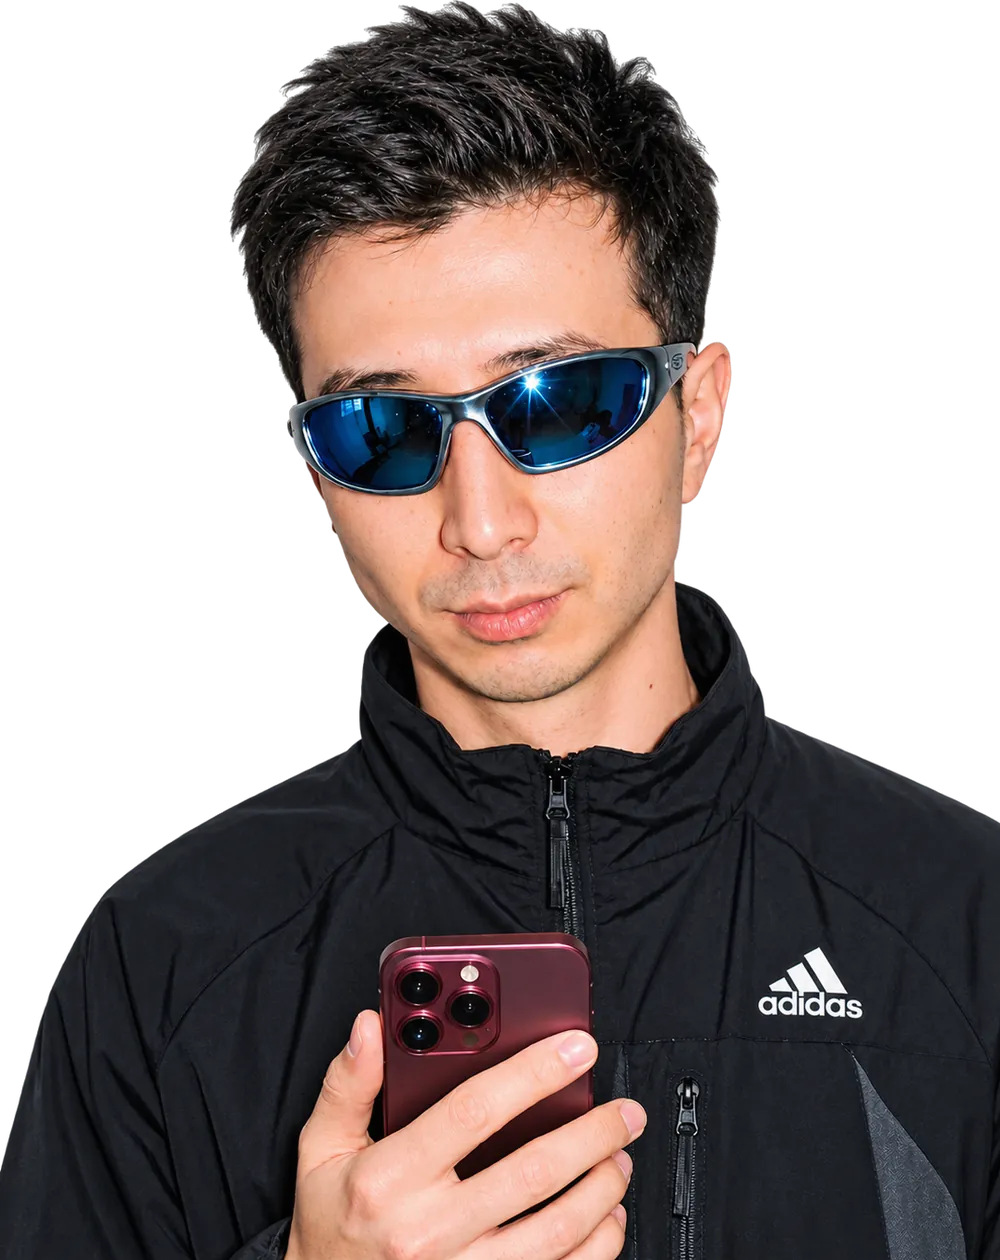
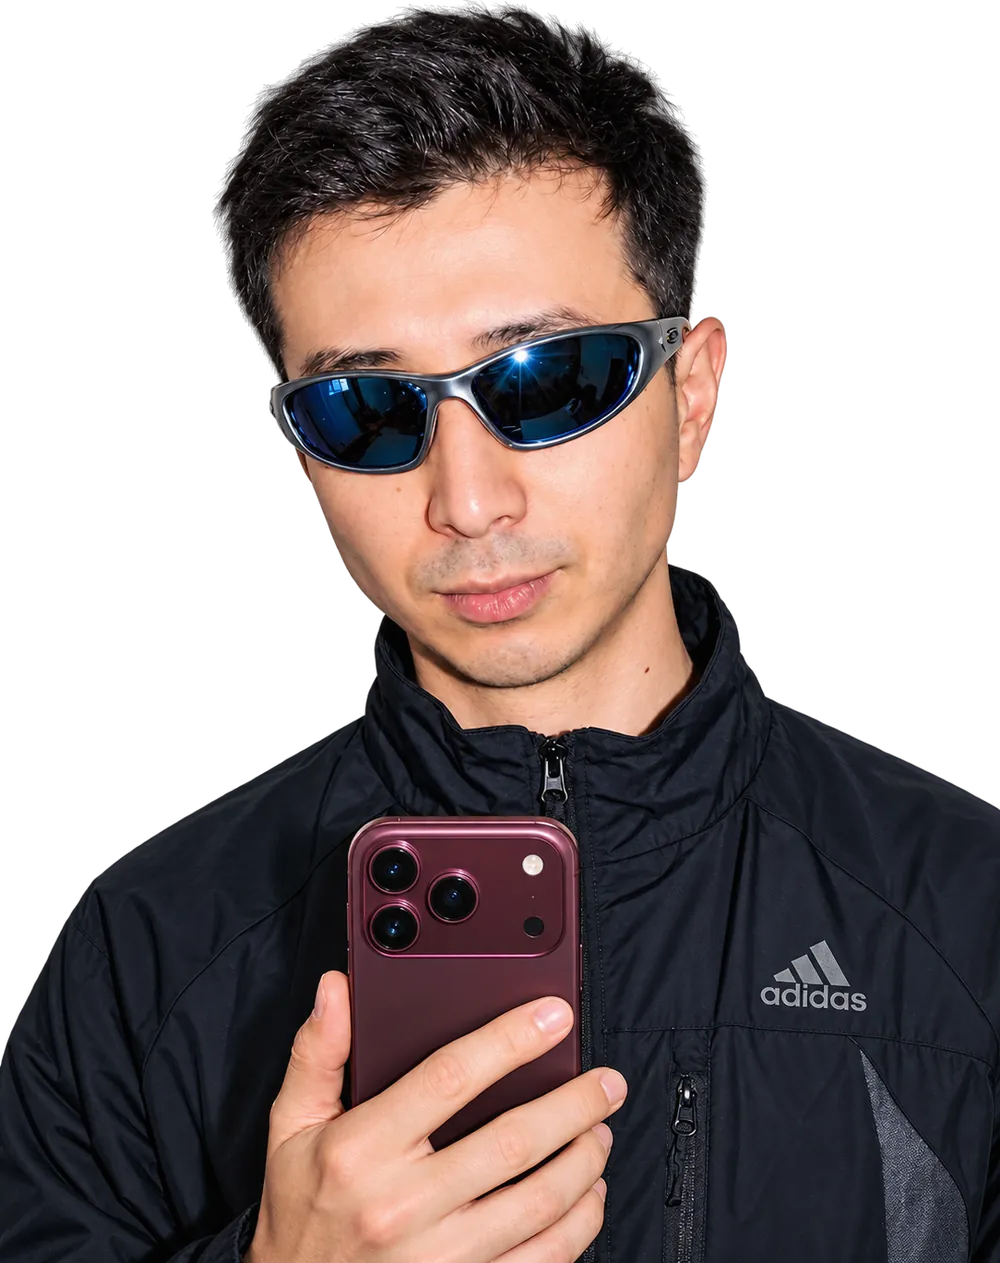
Hero: new 3D objects (Instagram, Facebook, chat, coin stack), white band text; new trust photo; call is free
Claude-Session: https://claude.ai/code/session_01KPYEyg31sCA23kDGY9SPR4

Changed region(s): [[0.0, 0.0, 1.0, 1.0], [0.713, 0.681, 1.0, 1.0], [0.0, 0.9595, 0.031, 0.9905]]

diff --git a/index.html b/index.html
@@ -70,7 +70,7 @@
           <a class="btn btn--ghost" href="#audit">Аудит рекламы — бесплатно</a>
         </div>
         <p class="hero__note"><span class="dot" aria-hidden="true"></span>Отвечаю в Telegram в течение 2 часов, с 13:00 до 23:00</p>
-        <a class="hero__call" href="#call"><svg class="ic" viewBox="0 0 24 24" aria-hidden="true"><rect x="3" y="6" width="13" height="12" rx="3"/><path d="m16 10 5-3v10l-5-3"/></svg><span>Можно созвониться в <b>Zoom</b> или <b>Discord</b></span></a>
+        <a class="hero__call" href="#call"><svg class="ic" viewBox="0 0 24 24" aria-hidden="true"><rect x="3" y="6" width="13" height="12" rx="3"/><path d="m16 10 5-3v10l-5-3"/></svg><span>Бесплатный созвон в <b>Zoom</b> или <b>Discord</b></span></a>
       </div>
 
       <div class="hero__visual">
@@ -100,9 +100,10 @@
         </div>
 
         <div class="coins" aria-hidden="true">
-          <span class="coin coin--som" style="--d:1.3"><img src="assets/img/3d/coin-som.webp" width="440" height="454" alt=""></span>
-          <span class="coin coin--usd" style="--d:-1"><img src="assets/img/3d/coin-usd.webp" width="440" height="452" alt=""></span>
-          <span class="coin coin--kzt" style="--d:2"><img src="assets/img/3d/coin-kzt.webp" width="440" height="452" alt=""></span>
+          <span class="coin coin--ig" style="--d:1.3"><img src="assets/img/3d/ig.webp" width="440" height="441" alt=""></span>
+          <span class="coin coin--fb" style="--d:-1"><img src="assets/img/3d/fb.webp" width="440" height="451" alt=""></span>
+          <span class="coin coin--chat" style="--d:2"><img src="assets/img/3d/chat.webp" width="440" height="441" alt=""></span>
+          <span class="coin coin--stack" style="--d:-1.6"><img src="assets/img/3d/coins-stack.webp" width="520" height="462" alt=""></span>
         </div>
       </div>
     </section>
@@ -118,8 +119,8 @@
     </div>
     <div class="band band--light">
       <div class="band__track band__track--rev" data-speed="-0.8">
-        <span>Meta Ads <i>✦</i> Разблокировка <i>✦</i> Арбитраж <i>✦</i> Аудит <i>✦</i> Meta Ads <i>✦</i> Разблокировка <i>✦</i> Арбитраж <i>✦</i> Аудит <i>✦</i> </span>
-        <span>Meta Ads <i>✦</i> Разблокировка <i>✦</i> Арбитраж <i>✦</i> Аудит <i>✦</i> Meta Ads <i>✦</i> Разблокировка <i>✦</i> Арбитраж <i>✦</i> Аудит <i>✦</i> </span>
+        <span>Instagram <i>✦</i> Facebook Ads <i>✦</i> Targeting <i>✦</i> Разблокировка <i>✦</i> Instagram <i>✦</i> Facebook Ads <i>✦</i> Targeting <i>✦</i> Разблокировка <i>✦</i> </span>
+        <span>Instagram <i>✦</i> Facebook Ads <i>✦</i> Targeting <i>✦</i> Разблокировка <i>✦</i> Instagram <i>✦</i> Facebook Ads <i>✦</i> Targeting <i>✦</i> Разблокировка <i>✦</i> </span>
       </div>
     </div>
   </div>
@@ -195,7 +196,7 @@
 
       <div class="trust__visual" data-reveal>
         <span class="trust__band" aria-hidden="true"></span>
-        <img class="trust__photo" src="assets/img/trust-abbos.webp" width="1000" height="1260" alt="Аббос в солнцезащитных очках с телефоном" loading="lazy">
+        <img class="trust__photo" src="assets/img/trust-abbos.webp" width="1000" height="1263" alt="Аббос в солнцезащитных очках с телефоном" loading="lazy">
 
         <svg class="seal" viewBox="0 0 200 200" role="img" aria-label="Без паролей. Цена до старта. Диагностика бесплатно." data-spin>
           <defs><path id="seal-path" d="M100 100 m-78 0 a78 78 0 1 1 156 0 a78 78 0 1 1 -156 0"/></defs>
@@ -293,8 +294,9 @@
         <div class="call__copy">
           <p class="eyebrow eyebrow--light">Созвон</p>
           <h2 class="h2 call__title" id="call-title">Удобнее голосом? <em>Созвонимся</em></h2>
-          <p class="call__text">Zoom или Discord — как вам удобнее. Покажете кабинет через демонстрацию экрана, и разберём ситуацию вместе, в реальном времени. Пароли не нужны.</p>
+          <p class="call__text">Бесплатно, в Zoom или Discord — как вам удобнее. Покажете кабинет через демонстрацию экрана, и разберём ситуацию вместе, в реальном времени. Пароли не нужны.</p>
           <ul class="call__chips" aria-label="Детали созвона">
+            <li class="is-free"><svg class="ic" viewBox="0 0 24 24" aria-hidden="true"><path d="m5 12.5 4.5 4.5L19 7.5"/></svg>Бесплатно</li>
             <li><svg class="ic" viewBox="0 0 24 24" aria-hidden="true"><rect x="3" y="6" width="13" height="12" rx="3"/><path d="m16 10 5-3v10l-5-3"/></svg>Zoom</li>
             <li><svg class="ic" viewBox="0 0 24 24" aria-hidden="true"><path d="M4 14v-2a8 8 0 0 1 16 0v2"/><rect x="3" y="14" width="4" height="6" rx="1.5"/><rect x="17" y="14" width="4" height="6" rx="1.5"/></svg>Discord</li>
             <li><svg class="ic" viewBox="0 0 24 24" aria-hidden="true"><rect x="3" y="4" width="18" height="12" rx="2"/><path d="M8 20h8M12 16v4"/></svg>Демонстрация экрана</li>

diff --git a/assets/css/style.css b/assets/css/style.css
@@ -211,12 +211,13 @@ ul { padding: 0; list-style: none; }
   transform: translate3d(calc(var(--px) * var(--d) * 24px), calc(var(--py) * var(--d) * 18px + var(--sp) * var(--d) * -90px), 0);
 }
 .coin img { width: 100%; height: auto; filter: drop-shadow(0 18px 22px rgba(0,0,0,.5)); animation: coin-float 7s ease-in-out infinite; }
-.coin--usd img { animation-delay: -2.5s; animation-duration: 8s; }
-.coin--kzt img { animation-delay: -5s; animation-duration: 6.5s; }
+.coin--fb img { animation-delay: -2.5s; animation-duration: 8s; }
+.coin--chat img { animation-delay: -5s; animation-duration: 6.5s; }
+.coin--stack img { animation-delay: -1.2s; animation-duration: 9s; }
 @keyframes coin-float { 0%, 100% { translate: 0 0; rotate: -8deg; } 50% { translate: 0 -14px; rotate: 6deg; } }
-.coin--som { --w: 86px; left: 8px; top: 36%; }
-.coin--usd { --w: 74px; right: 6px; top: 50%; }
-.coin--kzt { display: none; }
+.coin--ig { --w: 80px; left: 8px; top: 36%; }
+.coin--fb { --w: 70px; right: 6px; top: 50%; }
+.coin--chat, .coin--stack { display: none; }
 
 /* ---------- hero: tablet ---------- */
 @media (min-width: 768px) {
@@ -227,9 +228,9 @@ ul { padding: 0; list-style: none; }
   .chip__ic { width: 30px; height: 30px; }
   .chip--1 { left: 6%; } .chip--2 { left: 6%; }
   .chip--3 { display: inline-flex; left: 6%; top: 34%; animation-delay: -4s; }
-  .coin--som { --w: 120px; left: 4%; top: 48%; }
-  .coin--usd { --w: 100px; right: 3%; top: 40%; }
-  .coin--kzt { display: block; --w: 78px; left: 44%; top: -2%; }
+  .coin--ig { --w: 110px; left: 4%; top: 48%; }
+  .coin--fb { --w: 96px; right: 3%; top: 40%; }
+  .coin--chat { display: block; --w: 80px; left: 44%; top: -2%; }
 }
 
 /* ---------- hero: desktop — текст слева, визуал справа ---------- */
@@ -254,9 +255,10 @@ ul { padding: 0; list-style: none; }
   .chip--2 { left: 4%; top: 25%; }
   .chip--3 { left: -4%; top: 36%; }
   .stat { left: auto; right: -3%; bottom: 110px; }
-  .coin--som { --w: 150px; left: 36%; top: -9%; }
-  .coin--usd { --w: 112px; right: -8%; top: 33%; }
-  .coin--kzt { --w: 86px; left: -12%; top: 56%; }
+  .coin--ig { --w: 128px; left: 36%; top: -8%; }
+  .coin--fb { --w: 108px; right: -8%; top: 33%; }
+  .coin--chat { --w: 92px; left: -12%; top: 56%; }
+  .coin--stack { display: block; --w: 112px; right: -7%; top: -6%; }
 }
 
 /* ---------- бегущие полосы (JS двигает их и ускоряет от скролла) ---------- */
@@ -623,6 +625,8 @@ ul { padding: 0; list-style: none; }
 .call__chips { display: flex; flex-wrap: wrap; gap: 8px; margin-top: 22px; }
 .call__chips li { display: inline-flex; align-items: center; gap: 8px; padding: 9px 14px; border-radius: 999px; background: var(--light); font: 600 14px/1 var(--f-body); }
 .call__chips .ic { width: 17px; height: 17px; color: var(--accent); }
+.call__chips .is-free { background: var(--accent); color: var(--white); box-shadow: 0 10px 24px -12px rgba(217,54,26,.9); }
+.call__chips .is-free .ic { color: var(--white); }
 .call__btn { margin-top: 26px; }
 
 .vcall {
@@ -702,9 +706,10 @@ ul { padding: 0; list-style: none; }
   .chip--3 { animation-delay: 1.1s, -4s; }
   .stat { animation: chip-in .7s var(--ease-back) 1.2s both; }
   .coin { animation: coin-in 1.2s var(--ease-back) both; }
-  .coin--som { animation-delay: .9s; }
-  .coin--usd { animation-delay: 1.05s; }
-  .coin--kzt { animation-delay: 1.2s; }
+  .coin--ig { animation-delay: .9s; }
+  .coin--fb { animation-delay: 1.05s; }
+  .coin--chat { animation-delay: 1.2s; }
+  .coin--stack { animation-delay: 1.35s; }
 
   @keyframes rise    { from { opacity: 0; translate: 0 28px; } }
   @keyframes fade-in { from { opacity: 0; } }

diff --git a/CLAUDE.md b/CLAUDE.md
@@ -73,7 +73,7 @@
 3. **Услуги** — 4 крупные карточки: Снятие ограничений / Взлом и фишинг / Аудит (бесплатно) / Арбитраж трафика
 4. **Почему мне доверяют** — опыт в Meta Pro Team, фото в очках, «печать» сюзане, полоса флажков «Работаю с бизнесом из…»
 5. **Арбитраж** — красная секция, фото в пуховике с долларами, монеты
-5a. **Созвон** — блок Zoom / Discord с окном видеозвонка (`portrait-abbos.webp`), текст в COPY.ru.md §5a на согласовании; в hero — строка-ссылка «Можно созвониться в Zoom или Discord»
+5a. **Созвон** — блок Zoom / Discord с окном видеозвонка (`portrait-abbos.webp`), текст в COPY.ru.md §5a (согласован, созвон бесплатный); в hero — строка-ссылка «Бесплатный созвон в Zoom или Discord»
 6. **Как я работаю** — 4 шага
 7. **«СКОЛЬКО?»** — розовая секция, правила цены без цифр
 8. **Бесплатный аудит** — форма заявки
@@ -118,7 +118,8 @@
 
 - [x] Telegram-юзернейм: @bossja999
 - [x] 4 фото-вырезки (исходники PNG в `assets/img/src/`, на сайт не публикуются): `hero-abbos.webp` (кожаный костюм) — hero; `trust-abbos.webp` (очки) — «Доверие»; `arbitrage-abbos.webp` (пуховик) — «Арбитраж»; `portrait-abbos.webp` (пиджак, руки скрещены) — «Контакты».
-- [ ] 3D-объекты (PNG): монеты, замок, цепь, щит — **Аббос пришлёт; секции с 3D начинать только после получения**
+- [x] 3D-объекты (WebP в `assets/img/3d/`, исходники в `assets/img/src/3d/`): hero — `ig`, `fb`, `chat`, `coins-stack`; «Арбитраж» — `coin-usd`, `coin-som`, `coin-kzt`; «Услуги» — `lock`, `chain`, `shield`.
+- [x] Фото «Доверие» заменено (05.11) на новое `trust-abbos.webp` (исходник `src/glasses-phone-2.png`).
 - [x] Список стран: Узбекистан, Кыргызстан, Таджикистан, Азербайджан
 - [x] Pixel ID: 798392145862804
 - [x] Срок аудита: в течение дня
@@ -132,6 +133,7 @@
 - Footer-имя: в COPY — «Abbos»; ранее согласовано «Аббос Омонбоев».
 - Пароли: подтверждено — доступ к активам только через роль в бизнес-портфолио, «Без паролей» на сайте верно.
 - GitHub Pages включает сам Аббос (Settings → Pages → main / root).
+- 05.11: по прямой просьбе Аббоса в hero стоят стилизованные красно-золотые 3D-иконки Instagram и Facebook (исключение из §6). Риск объяснён: бренд-гайды Meta запрещают перекрашивать их логотипы, а модерация рекламы может отклонять объявления с изменёнными логотипами Meta на посадочной. Если будут отклонения — заменить на нейтральные объекты.
 
 ## 11. Анимация и «вау»-эффект (пожелание Аббоса 04.11)
 

diff --git a/COPY.ru.md b/COPY.ru.md
@@ -27,7 +27,7 @@
 
 Мелко под кнопками: Отвечаю в Telegram в течение 2 часов, с 13:00 до 23:00.
 
-Строка-ссылка под ней (→ блок «Созвон») — *на согласовании*: Можно созвониться в Zoom или Discord
+Строка-ссылка под ней (→ блок «Созвон»): Бесплатный созвон в Zoom или Discord
 
 ---
 
@@ -35,6 +35,8 @@
 
 `АРБИТРАЖ • АРБИТРАЖ • АРБИТРАЖ •`
 (вторая лента, перекрёстная: `НЕ БАН • НЕ ПРИГОВОР • НЕ БАН • НЕ ПРИГОВОР •`)
+
+Факт. вёрстка (05.11): акцентная лента — `АРБИТРАЖ ✦ НЕ БАН ✦ НЕ ПРИГОВОР ✦`; белая лента — `INSTAGRAM ✦ FACEBOOK ADS ✦ TARGETING ✦ РАЗБЛОКИРОВКА ✦` (по просьбе Аббоса).
 
 ---
 
@@ -102,15 +104,15 @@
 
 ---
 
-## 5a. Созвон — Zoom / Discord (НОВОЕ, текст на согласовании у Аббоса)
+## 5a. Созвон — Zoom / Discord (согласовано 05.11: созвон бесплатный, языки RU · UZ · EN)
 
 Моно-подпись: `Созвон`
 
 **Заголовок:** Удобнее голосом? Созвонимся
 
-**Текст:** Zoom или Discord — как вам удобнее. Покажете кабинет через демонстрацию экрана, и разберём ситуацию вместе, в реальном времени. Пароли не нужны.
+**Текст:** Бесплатно, в Zoom или Discord — как вам удобнее. Покажете кабинет через демонстрацию экрана, и разберём ситуацию вместе, в реальном времени. Пароли не нужны.
 
-**Чипсы:** Zoom · Discord · Демонстрация экрана · RU · UZ · EN
+**Чипсы:** Бесплатно (акцентный) · Zoom · Discord · Демонстрация экрана · RU · UZ · EN
 
 **Кнопка:** `Договориться о созвоне` → Telegram
 
